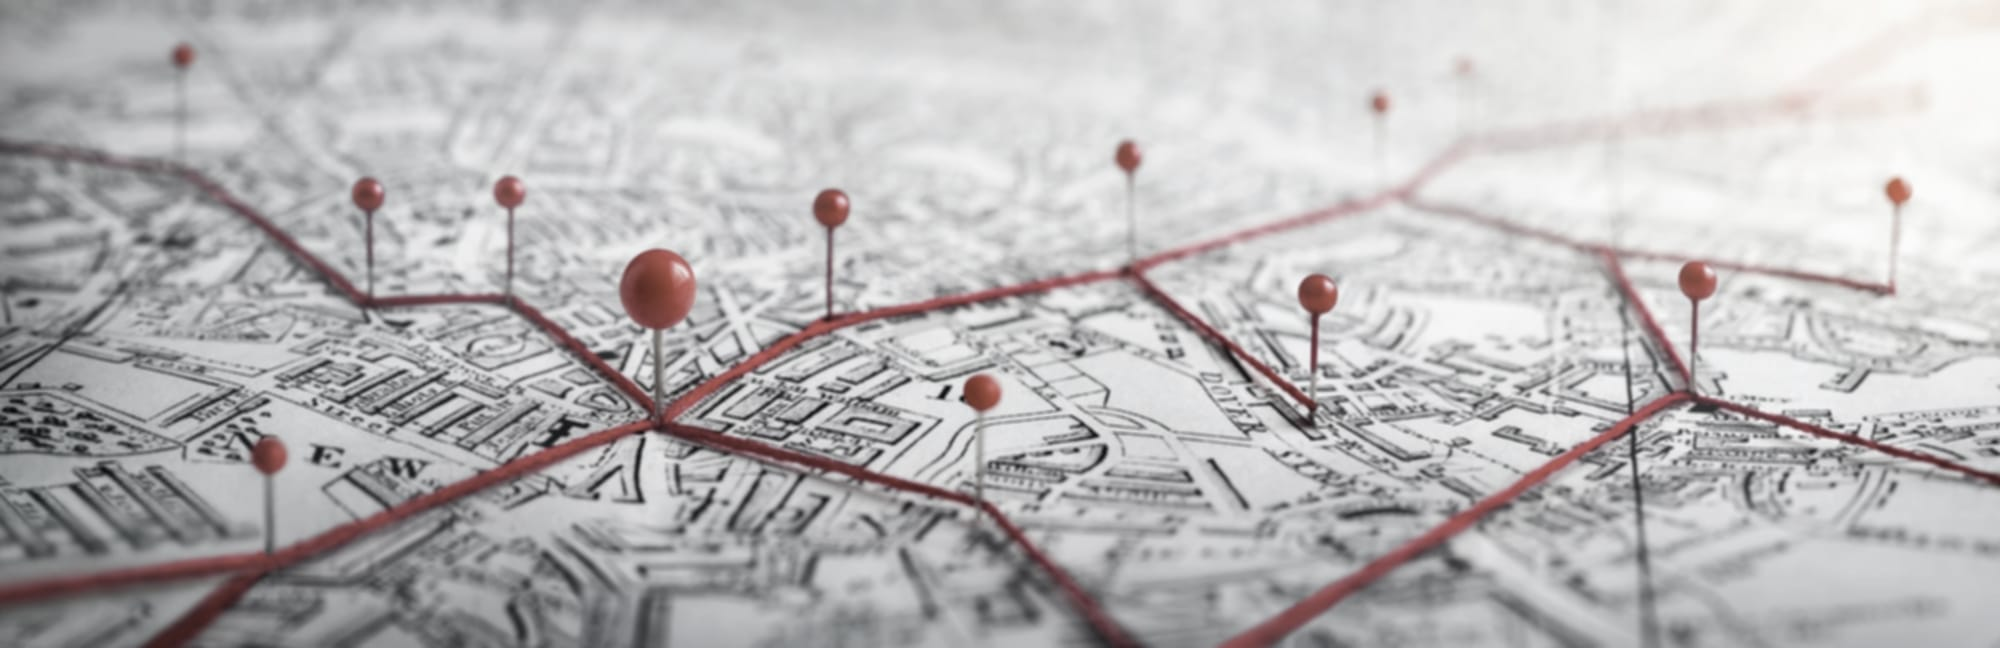
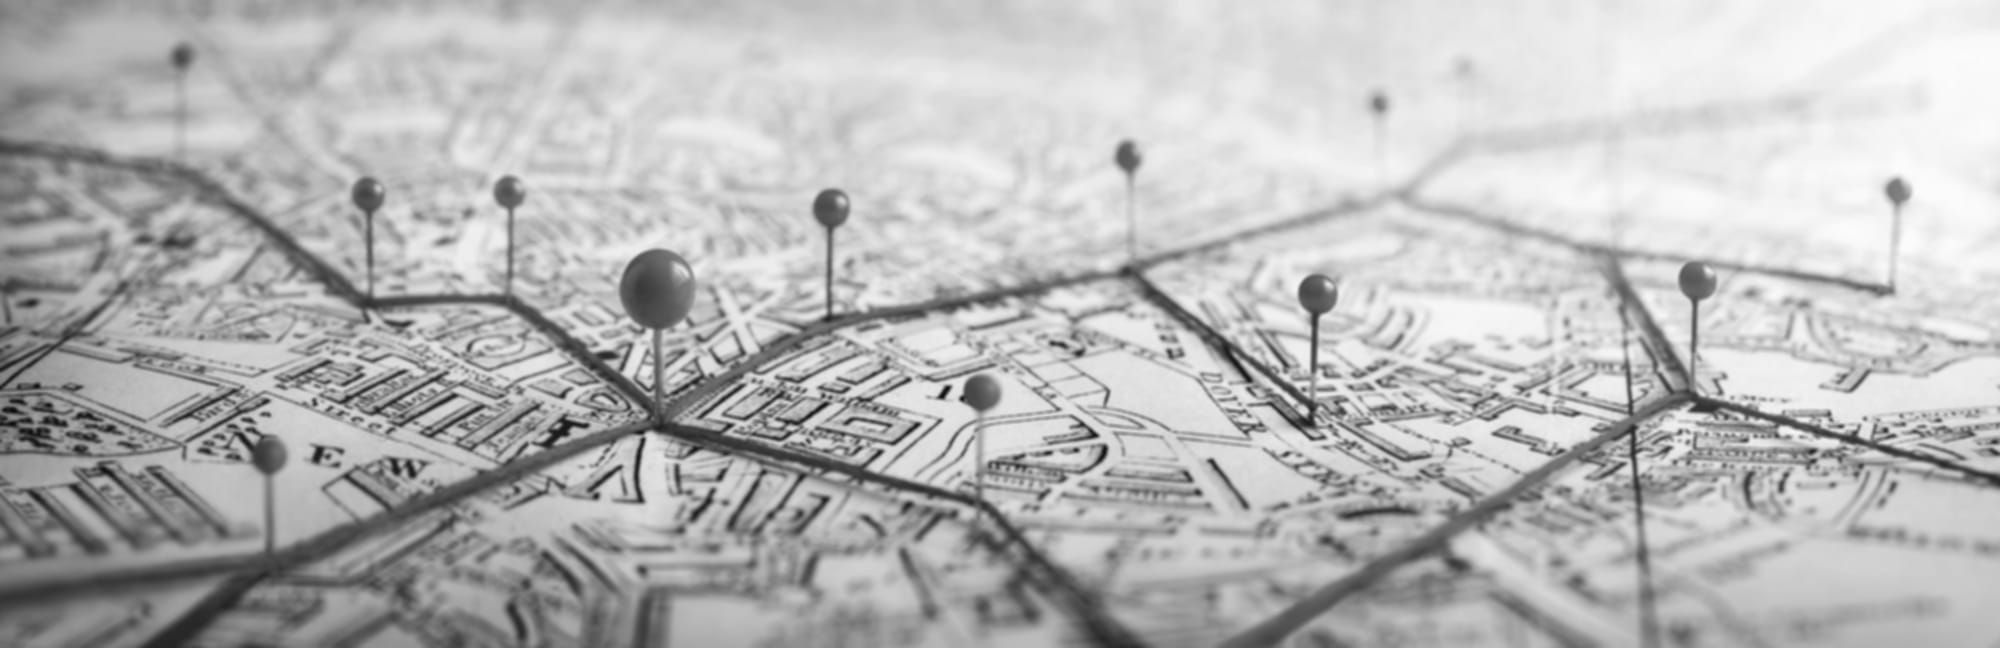
style(hub): grayscale + less-opaque detail map backdrop
Make the fixed grant-detail map more monochromatic (re-bake map-bg-soft
to grayscale) and ease the cream wash (25% -> 15%), so it reads as a
cleaner, more visible blue-tinted monochrome backdrop under the navy hue.

Claude-Session: https://claude.ai/code/session_01VXXgCqX8fTCNKaFEUFwZ2w

diff --git a/components/layout/hub-background.tsx b/components/layout/hub-background.tsx
@@ -21,8 +21,9 @@ function MapBackdrop() {
           backgroundAttachment: "fixed",
         }}
       />
-      {/* a light lift for legibility, then a gentle GRANTED-navy hue over the map */}
-      <div className="absolute inset-0 bg-brand-cream/25" />
+      {/* lighter lift (less opaque) + a gentle GRANTED-navy hue over the now-
+          grayscale map, so it reads as a clean blue-tinted monochrome backdrop */}
+      <div className="absolute inset-0 bg-brand-cream/15" />
       <div className="absolute inset-0 bg-brand-navy/[0.12]" />
     </div>
   );